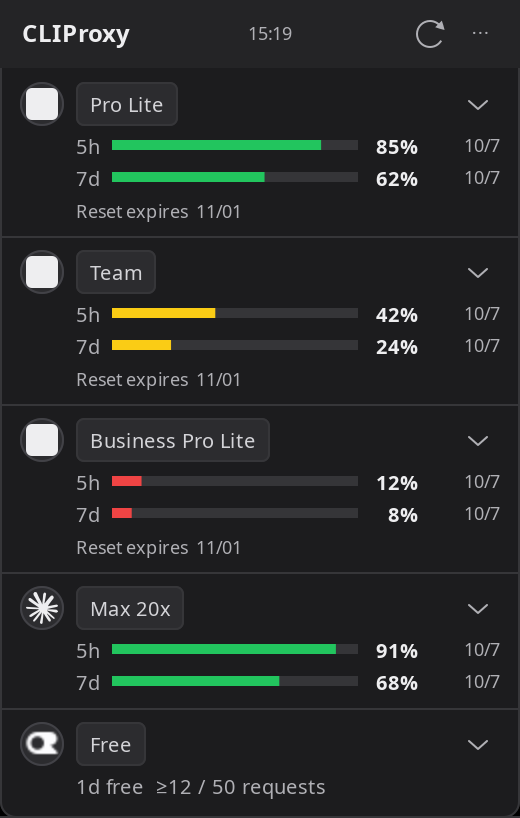
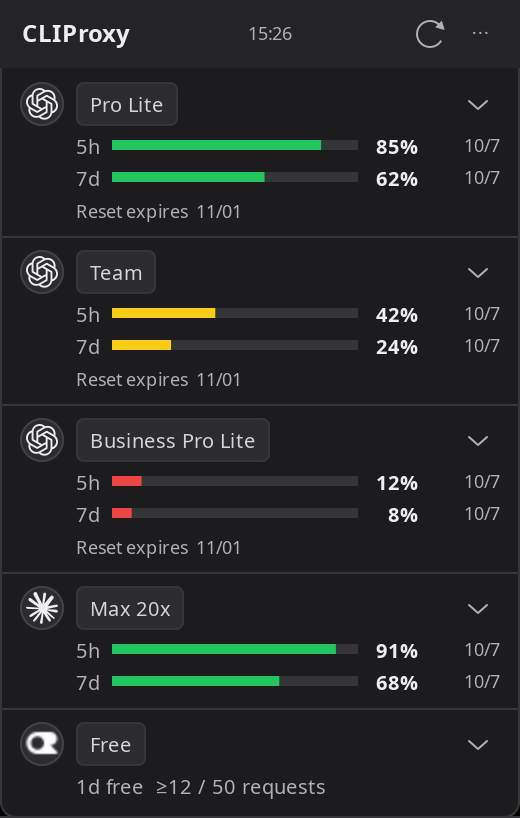
🐛 fix(widget): use transparent Codex symbolic glyph

diff --git a/tests/test_icons.py b/tests/test_icons.py
@@ -1,0 +1,19 @@
+import unittest
+from pathlib import Path
+import gi
+
+gi.require_version("GdkPixbuf", "2.0")
+from gi.repository import GdkPixbuf
+
+
+class ServiceIconTest(unittest.TestCase):
+    def test_symbolic_logos_have_transparent_space_around_the_glyph(self):
+        assets = Path(__file__).resolve().parents[1] / "assets"
+        for provider in ("codex", "claude"):
+            icon = GdkPixbuf.Pixbuf.new_from_file_at_scale(str(assets / f"{provider}-symbolic.svg"), 32, 32, True)
+            self.assertTrue(icon.get_has_alpha(), provider)
+            pixels = icon.get_pixels()
+            channels, stride = icon.get_n_channels(), icon.get_rowstride()
+            transparent = sum(pixels[y * stride + x * channels + channels - 1] < 32
+                              for y in range(icon.get_height()) for x in range(icon.get_width()))
+            self.assertGreater(transparent, icon.get_width() * icon.get_height() // 5, provider)

diff --git a/assets/README.md b/assets/README.md
@@ -6,7 +6,7 @@ These identify services and do not imply affiliation or endorsement. Trademark r
 | File | Source |
 | --- | --- |
 | `cliproxy.png` | [EasyCLIProxyAPI app icon](https://github.com/router-for-me/EasyCLIProxyAPI/blob/main/src-tauri/icons/32x32.png) |
-| `codex-symbolic.svg` | [EasyCLIProxyAPI Codex icon](https://github.com/router-for-me/EasyCLIProxyAPI/blob/main/src/assets/icons/codex.svg) |
+| `codex-symbolic.svg` | [CLIProxyAPI OpenAI glyph used for Codex](https://github.com/router-for-me/CLIProxyAPI/blob/main/assets/logo/openai.svg) |
 | `claude-symbolic.svg` | [EasyCLIProxyAPI Claude icon](https://github.com/router-for-me/EasyCLIProxyAPI/blob/main/src/assets/icons/claude.svg) |
 | `openrouter-light.svg` | [OpenRouter Glyph Ink](https://openrouter.ai/brand/logos/transparent/glyph/svg/glyph-ink.svg) |
 | `openrouter-dark.svg` | [OpenRouter Glyph Cloud](https://openrouter.ai/brand/logos/transparent/glyph/svg/glyph-cloud.svg) |
@@ -14,3 +14,5 @@ These identify services and do not imply affiliation or endorsement. Trademark r
 EasyCLIProxyAPI is the desktop app recommended by the CLIProxyAPI project. Its [MIT notice](CLIProxy-LICENSE) is included. GTK treats the Codex and Claude files as symbolic service icons. The OpenRouter assets retain their original colors and aspect ratios; see [brand guidance](https://openrouter.ai/brand).
 
 EasyCLIProxyAPI는 CLIProxyAPI가 추천하는 데스크톱 앱입니다. 해당 프로젝트의 MIT 고지를 포함합니다. Codex·Claude는 GTK 심볼 아이콘으로 표시하며 OpenRouter는 원본 색과 비율을 유지합니다.
+
+The Codex account button uses the transparent OpenAI glyph from CLIProxyAPI. Its [MIT notice](CLIProxyAPI-LICENSE) is included. A full app icon with an opaque background must not be loaded as a GTK symbolic glyph.
